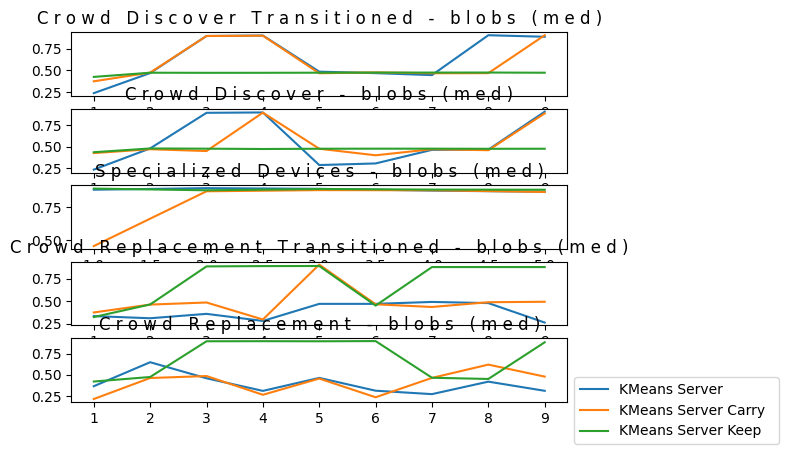
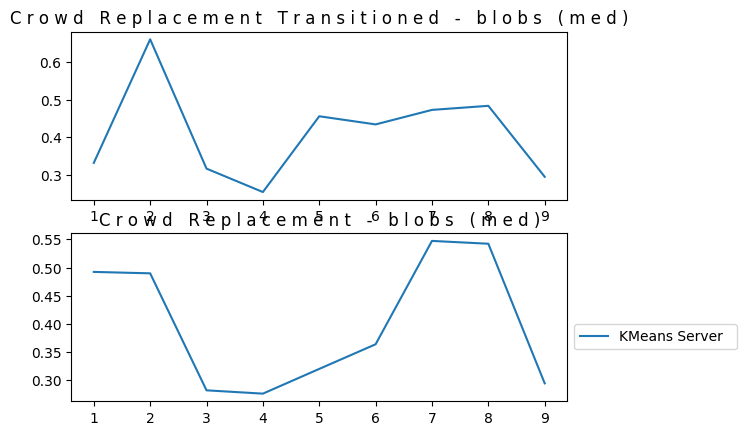
Testing framework done

diff --git a/Testing/config.py b/Testing/config.py
@@ -47,20 +47,20 @@ from Algorithms.som import SOM_Device, SOM_server
 layers = {
     "noice": (lambda dataset: collection.noice_levels[:-1] if dataset == "circles-grouped" else collection.noice_levels),
     "suites": [
-        # {
-        #     "name": "Basic",
-        #     "datasets": DataSetCollection.data_sets_names,
-        #     "rounds": 5,
-        #     "devices": 20, # number of devices per group
-        #     "pct_data_per_device": 0.05,
-        #     "transition": [False],
-        #     "groups": lambda dsclass,size: {"uniform": partial(dsclass.rand, size=s)},
-        #     "timeline": {
-        #         0: {
-        #             "uniform": 10 # number of devices per round
-        #         },
-        #     }
-        # },
+        {
+            "name": "Basic",
+            "datasets": DataSetCollection.data_sets_names,
+            "rounds": 5,
+            "devices": 20, # number of devices per group
+            "pct_data_per_device": 0.05,
+            "transition": [False],
+            "groups": lambda dsclass,size: {"uniform": partial(dsclass.rand, size=s)},
+            "timeline": {
+                0: {
+                    "uniform": 10 # number of devices per round
+                },
+            }
+        },
         {
             "name": "Crowd Discover",
             "datasets": DataSetCollection.data_sets_names,
@@ -98,47 +98,47 @@ layers = {
             # At each 3n rounds, switch to group n
             "timeline": lambda d,size: reduce((lambda o, s: o.update({3*s: {s: 10}}) or o), range(d.count), {}),
         },
-        # {
-        #     # Start with all devices having cluster 1
-        #     # After 3 rounds, let 20 devices discover another cluster
-        #     # After another 3, let the same 20 discover another
-        #     "name": "Subset Discover",
-        #     "datasets": DataSetCollection.data_sets_names,
-        #     "rounds": lambda d,size: 3 * d.count,
-        #     "devices": 20,
-        #     "pct_data_per_device": 0.05,
-        #     "transition": [True, False],
-        #     # Create groups with names counting up from 0 to count
-        #     # group n has datapoints from cluster n and is concated with group n-1
-        #     "groups": lambda d,s: {g: partial(d.rand_g_c, size=s,group=g) for g in range(d.count)},
-        #     # Start all devices at group 1,
-        #     # Move 20 devices up a group every 3 rounds
-        #     "timeline": lambda d,size: reduce((lambda o, s: o.update({3*s: {s: 2, 0: (10 if s == 0 else 8)}}) or o), range(d.count), {}),
-        # },
-        # {
-        #     # Start with all devices having cluster 1
-        #     # After 3 rounds, let 20 devices discover another cluster
-        #     # After another 3, let the same 20 discover another
-        #     "name": "One Discover",
-        #     "datasets": DataSetCollection.data_sets_names,
-        #     "rounds": lambda d,size: 3 * d.count,
-        #     "devices": 20,
-        #     "pct_data_per_device": 0.05,
-        #     "transition": [True, False],
-        #     # Create groups with names counting up from 0 to count
-        #     # group n has datapoints from cluster n and is concated with group n-1
-        #     "groups": lambda d,s: {g: partial(d.rand_g_c, size=s,group=g) for g in range(d.count)},
-        #     # Start all devices at group 1,
-        #     # Move 20 devices up a group every 3 rounds
-        #     "timeline": lambda d,size: reduce((lambda o, s: o.update({3*s: {s: 1, 0: (10 if s == 0 else 9)}}) or o), range(d.count), {}),
-        # },
+        {
+            # Start with all devices having cluster 1
+            # After 3 rounds, let 20 devices discover another cluster
+            # After another 3, let the same 20 discover another
+            "name": "Subset Discover",
+            "datasets": DataSetCollection.data_sets_names,
+            "rounds": lambda d,size: 3 * d.count,
+            "devices": 20,
+            "pct_data_per_device": 0.05,
+            "transition": [True, False],
+            # Create groups with names counting up from 0 to count
+            # group n has datapoints from cluster n and is concated with group n-1
+            "groups": lambda d,s: {g: partial(d.rand_g_c, size=s,group=g) for g in range(d.count)},
+            # Start all devices at group 1,
+            # Move 20 devices up a group every 3 rounds
+            "timeline": lambda d,size: reduce((lambda o, s: o.update({3*s: {s: 2, 0: (10 if s == 0 else 8)}}) or o), range(d.count), {}),
+        },
+        {
+            # Start with all devices having cluster 1
+            # After 3 rounds, let 20 devices discover another cluster
+            # After another 3, let the same 20 discover another
+            "name": "One Discover",
+            "datasets": DataSetCollection.data_sets_names,
+            "rounds": lambda d,size: 3 * d.count,
+            "devices": 20,
+            "pct_data_per_device": 0.05,
+            "transition": [True, False],
+            # Create groups with names counting up from 0 to count
+            # group n has datapoints from cluster n and is concated with group n-1
+            "groups": lambda d,s: {g: partial(d.rand_g_c, size=s,group=g) for g in range(d.count)},
+            # Start all devices at group 1,
+            # Move 20 devices up a group every 3 rounds
+            "timeline": lambda d,size: reduce((lambda o, s: o.update({3*s: {s: 1, 0: (10 if s == 0 else 9)}}) or o), range(d.count), {}),
+        },
     ],
     "algs": [
         # {
-        #     "name": "SOM (Fed)",
-        #     "server": {"class": SOM_server, "kwargs": dict(params=layer_map["som_params"])}, 
-        #     "device": {"class": SOM_Device, "kwargs": dict(params=layer_map["som_params"])},
-        # },
+            "name": "SOM (Fed)",
+            "server": {"class": SOM_server, "kwargs": dict(params=layer_map["som_params"])}, 
+            "device": {"class": SOM_Device, "kwargs": dict(params=layer_map["som_params"])},
+        },
         {
             "name": "KMeans Server",
             "server": {"class": KMeans_Server, "kwargs": dict(cure_params=layer_map["k_means_server_params"])},

diff --git a/Testing/testing_evolution.py b/Testing/testing_evolution.py
@@ -113,7 +113,7 @@ class DeviceSuite:
         counter = 0
 
         for group, f in self.suite["groups"].items():
-            self.groups[group] = [Device(self.test["device"], f(), id_num=(
+            self.groups[group] = [Device(self.test["device"], f()["sample"](), id_num=(
                 counter*100000+i)) for i in range(self.suite["devices"])]
 
         self.server = Server(self.test["server"], self.groups)
@@ -128,14 +128,37 @@ class DeviceSuite:
         for _round, groups in self.suite["timeline"].items():
             self.server.run_round(groups)
 
+    def get_population_of_round(self, target_round):
+        indicies = None
+        group_set = set()
+        for _round, groups in self.suite["timeline"].items():
+            if _round <= target_round:
+                for g,val in groups.items():
+                    if val > 0 and g not in group_set:
+                        group_set.add(g)
+                        f = self.suite["groups"][g]
+                        _indicies = f()["population"]()
+                        if indicies is None:
+                            indicies = _indicies
+                        else:
+                            indicies = np.concatenate((indicies, _indicies),0)
+        indicies = np.unique(indicies)
+        data = self.suite["dataset"].get_data_for_indicies(indicies)
+        return data
+
+    def plot_round(self, target_round):
+        data = self.get_population_of_round(target_round)
+        self.sub_accuracy(data)
+        if self.server.PLOT:
+            self.server.plotter.plot_a(int(target_round), data, self.last_pred)
+
     def run_rounds_with_accuracy(self):
-        data = self.suite["dataset"].data
+        # data = self.suite["dataset"].data
         round_accs = []
         for _round, groups in self.suite["timeline"].items():
             self.server.run_round(groups, int(_round))
             round_accs.append(self.accuracy())
-            if self.server.PLOT:
-                self.server.plotter.plot_a(int(_round), data, self.last_pred)
+            self.plot_round(_round)
         return round_accs
     
     def complete(self):
@@ -149,6 +172,9 @@ class DeviceSuite:
         pred_labels = self.server.classify(data)
         self.last_pred = pred_labels
         return metrics.adjusted_rand_score(labels, pred_labels)
+    def sub_accuracy(self, data):
+        pred_labels = self.server.classify(data)
+        self.last_pred = pred_labels
 
 
 def evaluate_accuracy_evolution():

diff --git a/Testing/data.py b/Testing/data.py
@@ -6,18 +6,18 @@ class DataSetCollection:
     data = None
     labeled_data = None
     noice_levels = [
-        # "vhigh", 
-        # "high", 
+        "vhigh", 
+        "high", 
         "med", 
-        # "low", 
-        # "vlow"
+        "low", 
+        "vlow"
         ]
     # data_sets_names = ["moons", "circles", "longblobs", "blobs", "blobs2", "circle-grouped", "blobs-grouped"]
     data_sets_names = [
         "blobs",  
-        # "blobs2",
-        # "circle-grouped",
-        # "blobs-grouped",
+        "blobs2",
+        "circle-grouped",
+        "blobs-grouped",
     ]
     data_sets_names_validate = ["blobs", "blobs2", "circle", "blobs"]
     count_map = {
@@ -103,18 +103,25 @@ class DataSet:
     
 
     def rand(self, *, size):
-        indicies = np.random.choice(self.get_indices(), size=size, replace=False)
-        return [self.data[i] for i in indicies]
+        res = {}
+        res["sample"] = lambda: [self.data[i] for i in np.random.choice(self.get_indices(), size=size, replace=False)]
+        res["population"] = lambda: self.get_indices()
+        return res
     
     def rand_g(self, *, size, group):
-        non_iid_indices_population = self.get_indices_for_label(group)
-        indicies = np.random.choice(non_iid_indices_population, size=size, replace=False)
-        return [self.data[i] for i in indicies]
+        res = {}
+        res["sample"] = lambda: [self.data[i] for i in np.random.choice(self.get_indices_for_label(group), size=size, replace=False)]
+        res["population"] = lambda: self.get_indices_for_label(group)
+        return res
     
     def rand_g_c(self, *, size, group):
-        non_iid_indices_population = self.get_indices_for_label_c(group)
-        indicies = np.random.choice(non_iid_indices_population, size=size, replace=False)
-        return [self.data[i] for i in indicies]
+        res = {}
+        res["sample"] = lambda: [self.data[i] for i in np.random.choice(self.get_indices_for_label_c(group), size=size, replace=False)]
+        res["population"] = lambda: self.get_indices_for_label_c(group)
+        return res
+    
+    def get_data_for_indicies(self, indicies):
+        return np.array([self.data[i] for i in indicies])
     
     def concat(self, first_group, second_group):
         return np.unique(np.concatenate((first_group,second_group),0))

diff --git a/Testing/devices.py b/Testing/devices.py
@@ -88,8 +88,7 @@ class Server:
             report = device.report_back_to_server()
             reports.append(report)
             if self.PLOT:
-                if int(round_num) % 2 or (device_num-1)%2:
-                    self.plotter.plot_d(round_num, device_num, device.indicies, report)
+                self.plotter.plot_d(round_num, device_num, device.indicies, report)
         return reports
 
     def run(self):
